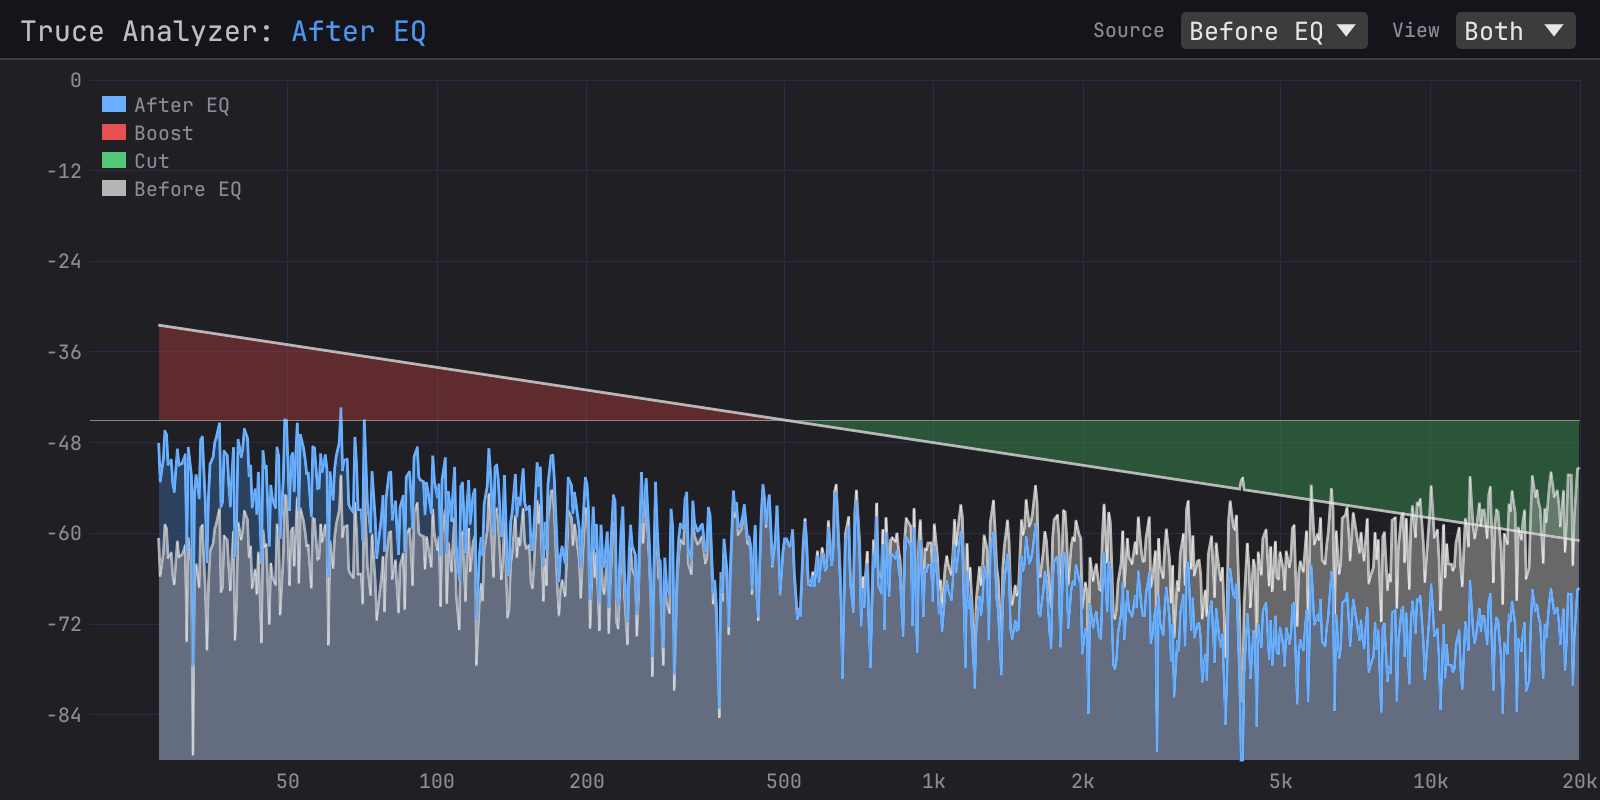
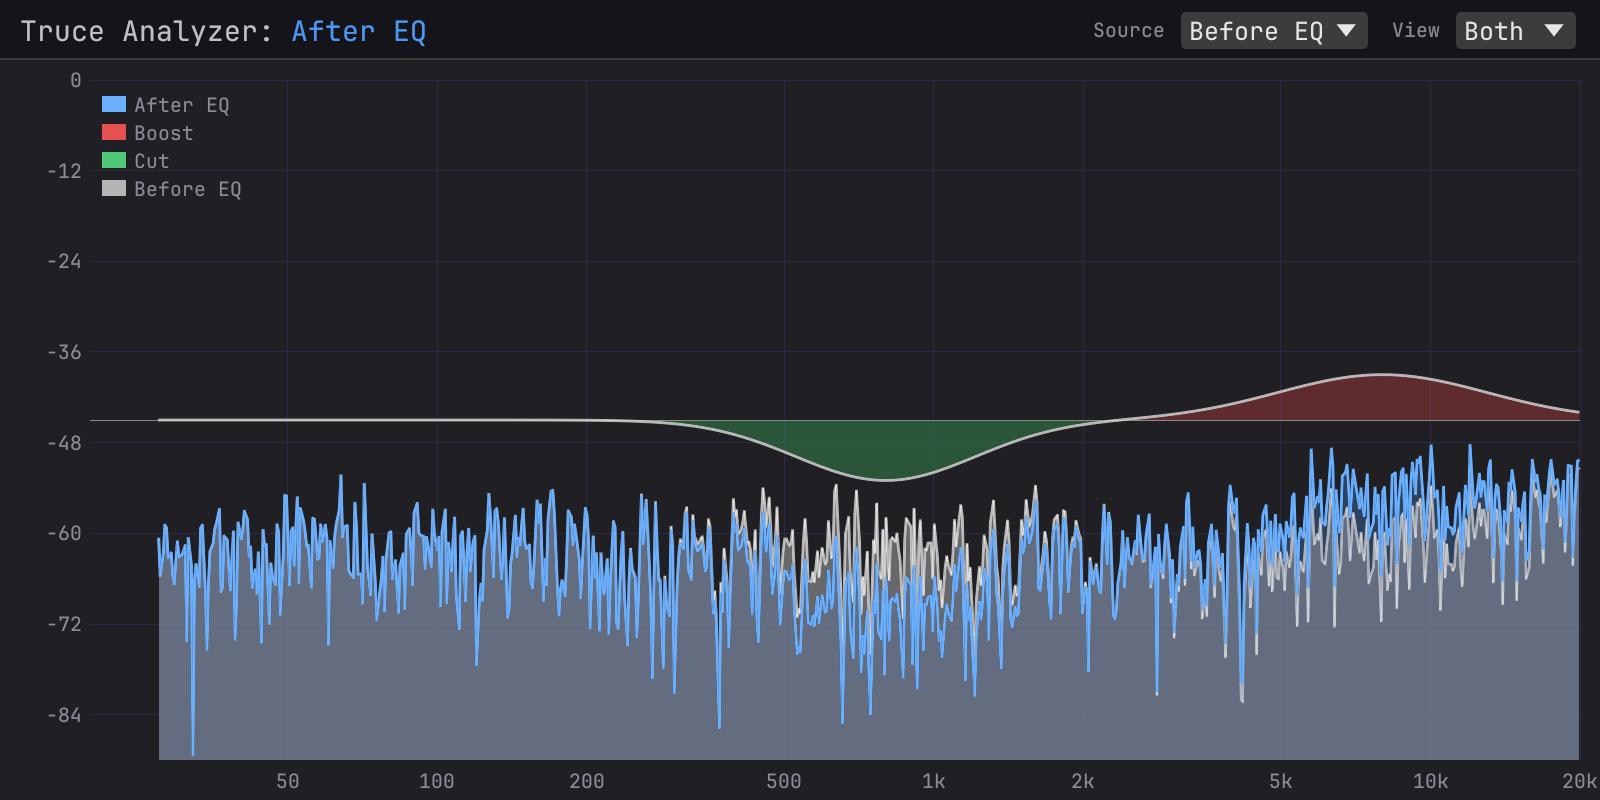
Update screenshots

Changed region(s): [[0.0938, 0.4062, 1.0, 0.9375]]

diff --git a/src/lib.rs b/src/lib.rs
@@ -951,8 +951,13 @@ mod tests {
             let freq = spec_before.center_freqs_slice()[i];
             let original = spec_before.read_bin(i);
             // Log-linear tilt: +4 dB at 30 Hz, 0 dB at ~500 Hz, -10 dB at 10 kHz
-            let octaves_from_ref = (freq / 500.0).log2();
-            let eq_db = -3.0 * octaves_from_ref;
+            // Mid scoop centered at 800 Hz + high shelf boost above 4 kHz.
+            // Two Gaussian-like bells.
+            let scoop = -8.0
+                * (-((freq / 800.0).log2()).powi(2) / (2.0 * 0.6_f32.powi(2))).exp();
+            let high_boost = 6.0
+                * (-((freq / 8000.0).log2()).powi(2) / (2.0 * 0.7_f32.powi(2))).exp();
+            let eq_db = scoop + high_boost;
             spec_after.write_bin(i, (original + eq_db).clamp(DB_FLOOR, 0.0));
         }
         spec_after.bump_version();
